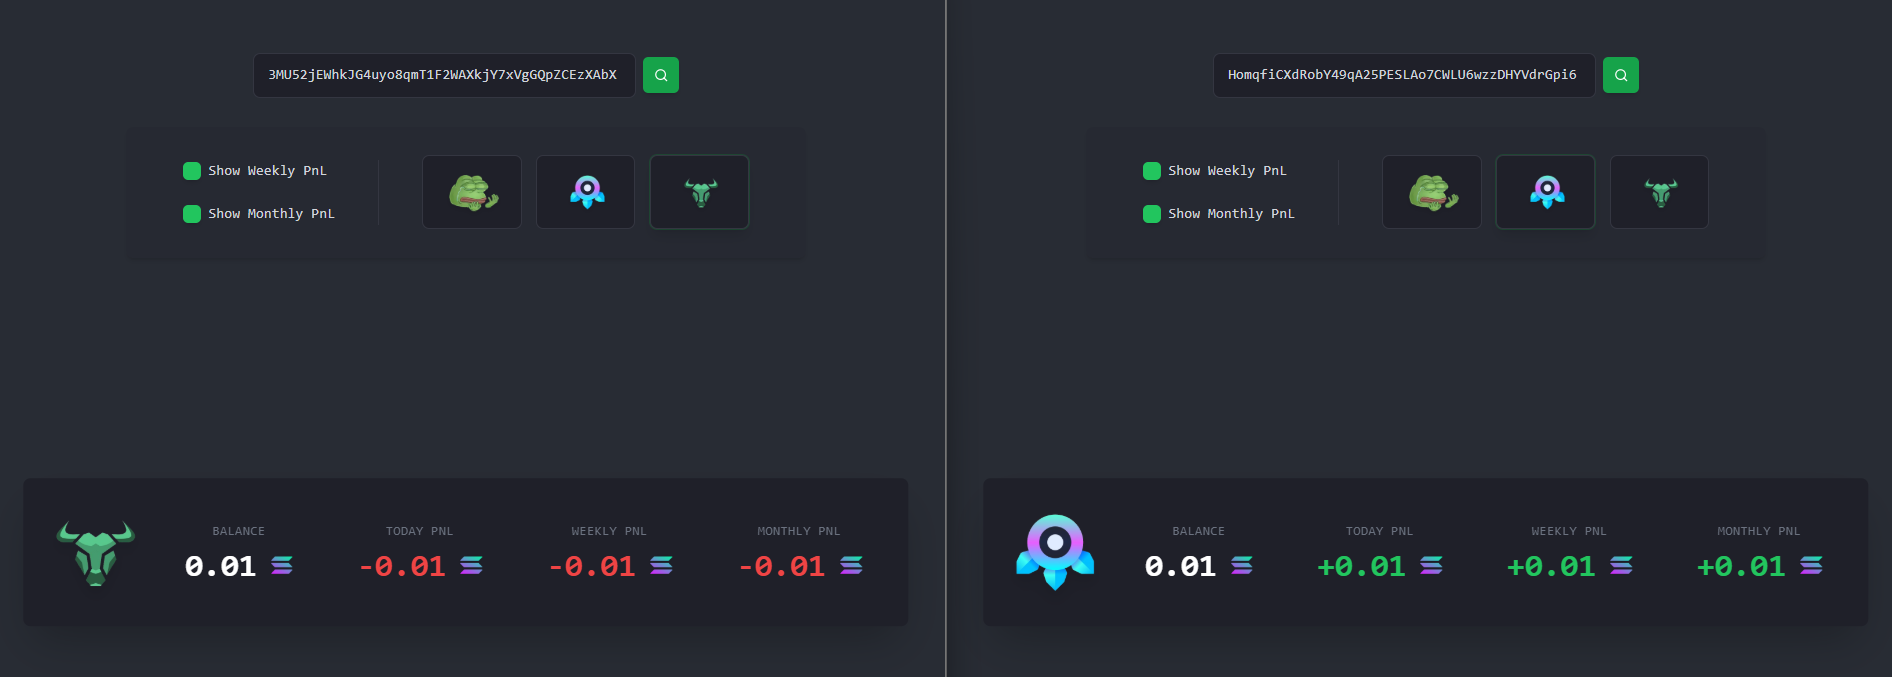
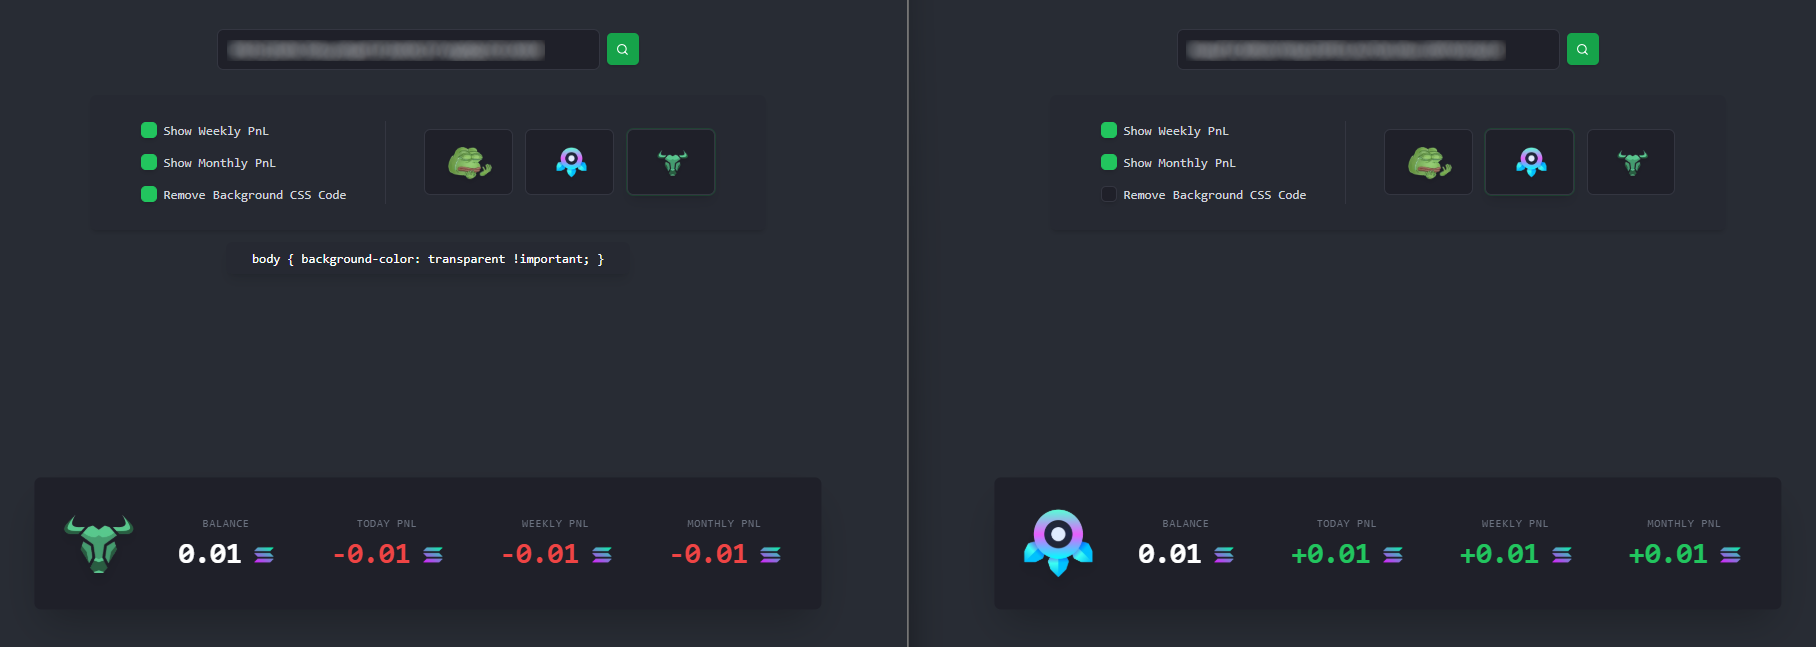
Added option to show background removal code

diff --git a/pages/components/WalletTracker.js b/pages/components/WalletTracker.js
@@ -2,8 +2,9 @@ import { useEffect, useState } from "react";
 import { toast } from 'react-hot-toast';
 import { RadioGroup, Radio, cn } from "@nextui-org/react";
 import Image from 'next/image';
+import RemoveBackCSS from './RemoveBackCSS';
 
-export const  PlatformRadio = (props) => {
+export const PlatformRadio = (props) => {
   const {children, ...otherProps} = props;
   return (
     <Radio
@@ -26,6 +27,7 @@ const WalletTracker = () => {
   const [walletData, setWalletData] = useState(null);
   const [walletAddress, setWalletAddress] = useState(""); // State for wallet address input
   const [inputAddress, setInputAddress] = useState(""); // State for the form input
+  const [showRemoveBackCSS, setRemoveBackCSS] = useState(false); // State to toggle background CSS code
   const [showWeekPnl, setShowWeekPnl] = useState(false); // State to toggle weekly PnL
   const [showMonthPnl, setShowMonthPnl] = useState(false); // State to toggle monthly PnL
   const [platSelected, setPlatSelected] = useState(""); // State to toggle selected platform
@@ -104,6 +106,10 @@ const WalletTracker = () => {
     setWalletAddress(inputAddress); // Set the wallet address from the form input
   };
 
+  const handleRemoveBackCSS = () => {
+    setRemoveBackCSS((prev) => !prev); // Toggle background CSS code
+  };
+
   const handleWeekPnlToggle = () => {
     setShowWeekPnl((prev) => !prev); // Toggle weekly PnL
   };
@@ -140,7 +146,7 @@ const WalletTracker = () => {
           <div class="w-auto border-r-2 border-[#343641] mr-12 pr-12">
             <div class="flex justify-start items-center">
               {/* Checkbox to toggle weekly PnL */}
-              <div className="mb-6">
+              <div className="mb-4">
                 <label class="flex justify-center items-center text-gray-300 font-medium">
                   <input
                     type="checkbox"
@@ -153,7 +159,7 @@ const WalletTracker = () => {
             </div>
             <div class="flex justify-start items-center">
               {/* Checkbox to toggle monthly PnL */}
-              <div>
+              <div className="mb-4">
                 <label class="flex justify-center items-center text-gray-300 font-medium">
                   <input
                     type="checkbox"
@@ -161,6 +167,19 @@ const WalletTracker = () => {
                     onChange={handleMonthPnlToggle}
                     className="appearance-none bg-[#1F2029] border border-[#343641] rounded-md w-5 h-5 checked:bg-green-500 checked:border-green-500 mr-2 transition-all duration-200 focus:outline-none shadow-md" />
                   Show Monthly PnL
+                </label>
+              </div>
+            </div>
+            <div class="flex justify-start items-center">
+              {/* Checkbox to background CSS code */}
+              <div>
+                <label class="flex justify-center items-center text-gray-300 font-medium">
+                  <input
+                    type="checkbox"
+                    checked={showRemoveBackCSS}
+                    onChange={handleRemoveBackCSS}
+                    className="appearance-none bg-[#1F2029] border border-[#343641] rounded-md w-5 h-5 checked:bg-green-500 checked:border-green-500 mr-2 transition-all duration-200 focus:outline-none shadow-md" />
+                    Remove Background CSS Code
                 </label>
               </div>
             </div>
@@ -197,6 +216,13 @@ const WalletTracker = () => {
           </div>
         </div>
       </div>
+      {showRemoveBackCSS && (
+        <div className="flex justify-center items-center w-full">
+          <div className="flex justify-center items-center bg-[rgba(31,32,41,0.2)] text-white px-8 py-2 rounded-lg shadow-lg mt-4">
+            <RemoveBackCSS />
+          </div>
+        </div>
+      )}
       {walletData ? (
         <div className="fixed top-2/3 left-1/2 -translate-x-1/2 -translate-y-1/2">
           <div className="flex justify-center items-center bg-[#1F2029] text-white px-4 rounded-lg shadow-2xl">

diff --git a/pages/components/RemoveBackCSS.js b/pages/components/RemoveBackCSS.js
@@ -1,0 +1,8 @@
+export default function RemoveBackCSS() {
+    const cssCode = `body { background-color: transparent !important; }`;
+    return (
+      <div>
+        <pre>{cssCode}</pre>
+      </div>
+    );
+}
